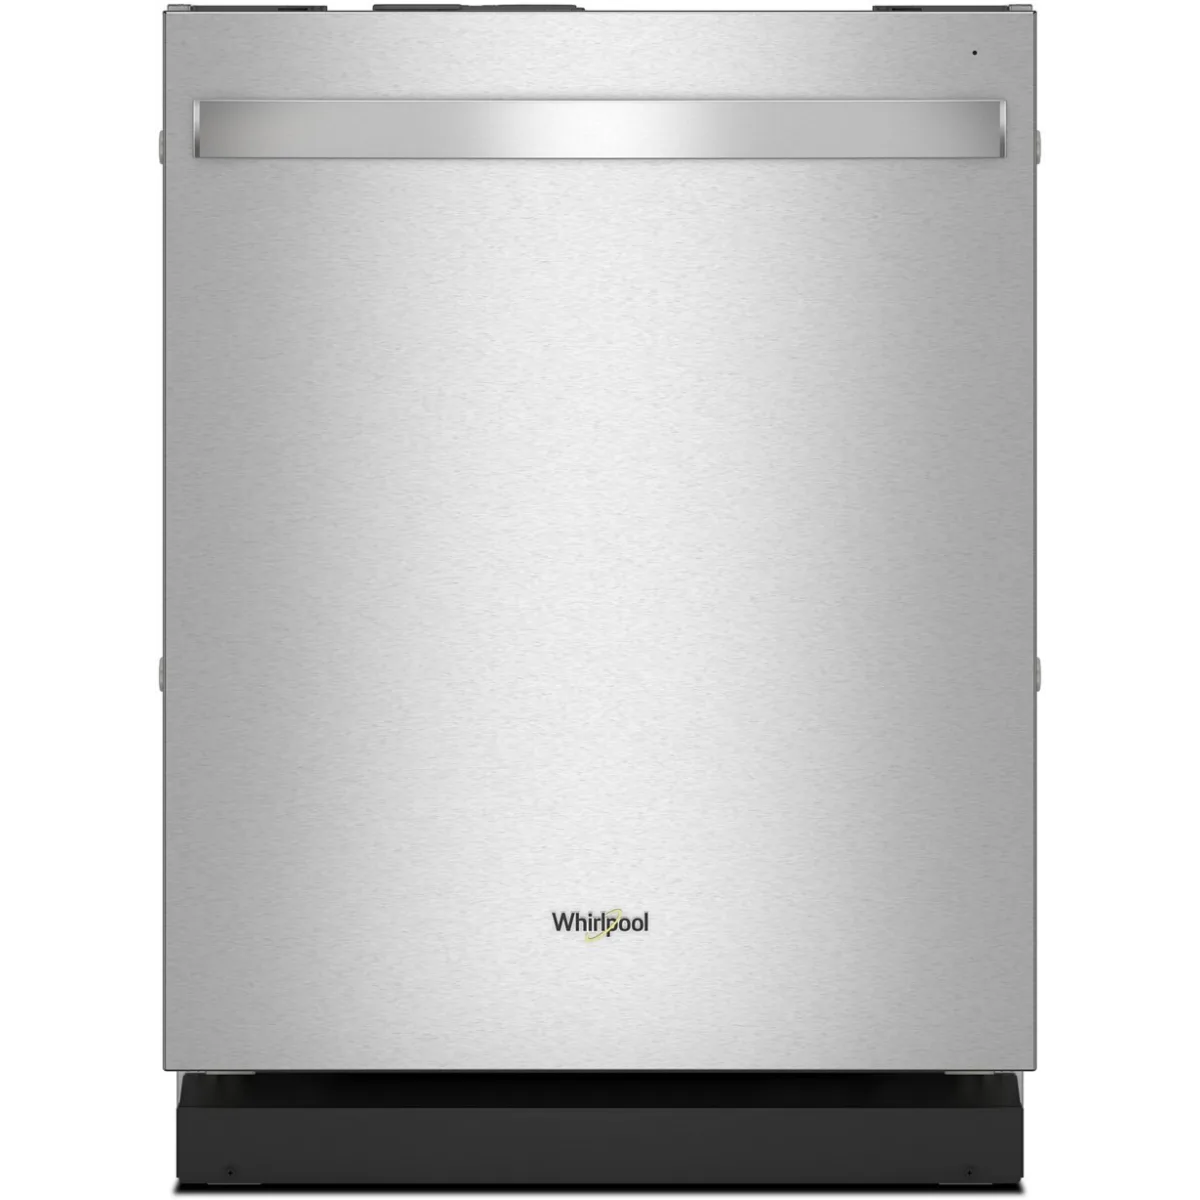
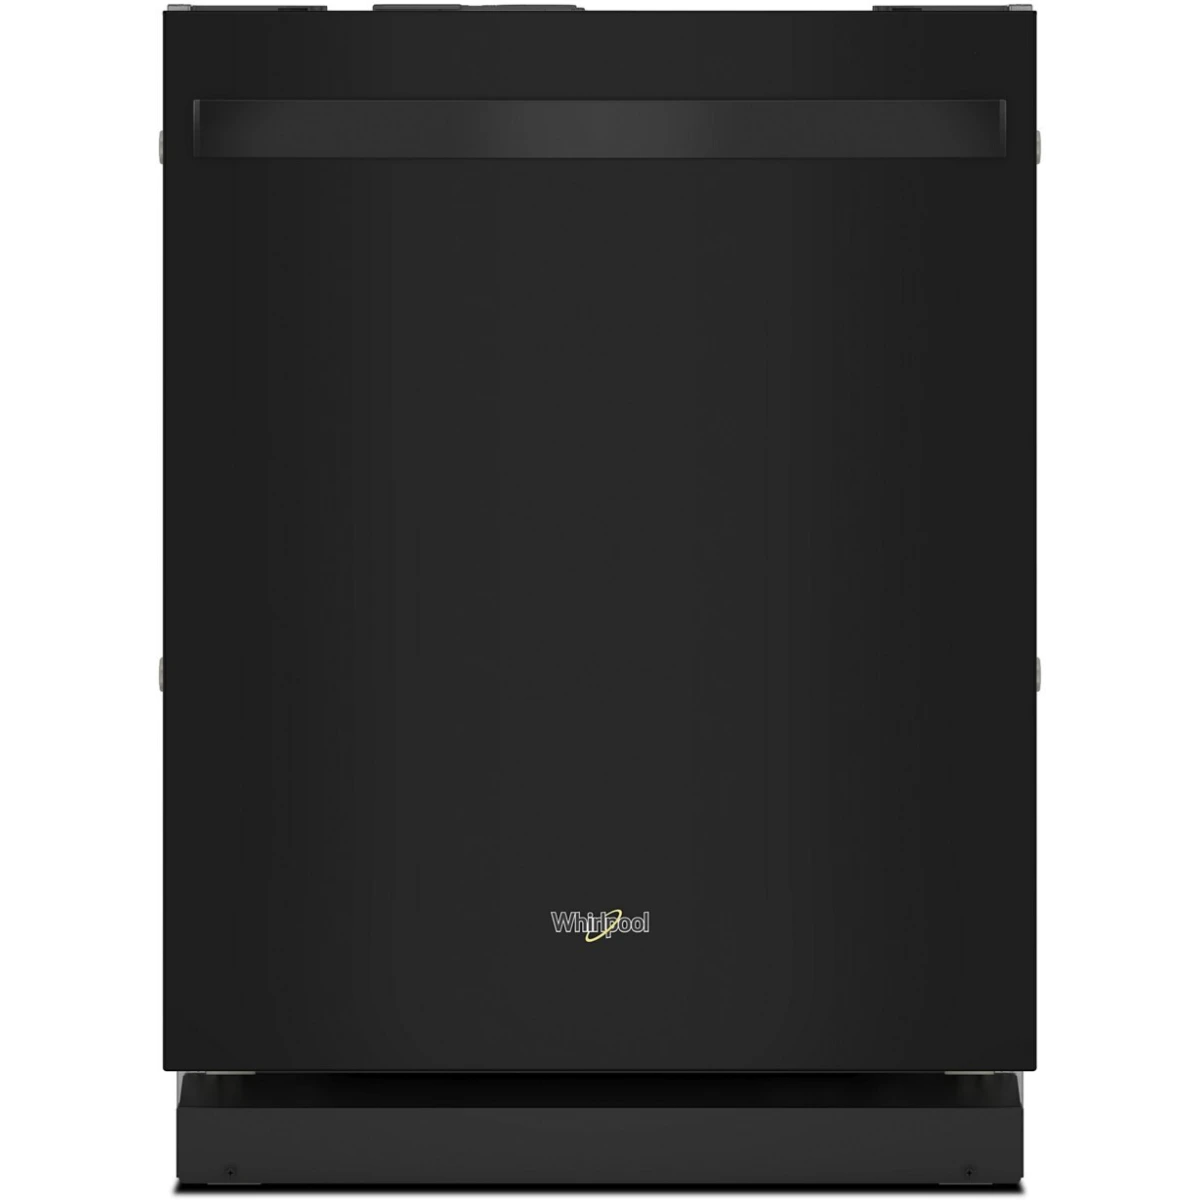
changes and updated appliances

diff --git a/src/components/Footer.tsx b/src/components/Footer.tsx
@@ -18,7 +18,10 @@ export default function Footer() {
                 height={40}
                 className="w-10 h-10"
               />
-              <span className="text-white font-semibold text-xl">BETTAR SERVICES</span>
+              <div className="flex flex-col leading-none">
+                <span className="text-white font-bold text-2xl tracking-[0.15em] mr-[-0.15em]">BETTAR</span>
+                <span className="text-white/90 font-medium text-[10px] tracking-[0.18em] mt-0.5 whitespace-nowrap">APPLIANCE MASTER</span>
+              </div>
             </div>
             <p className="text-gray-300 mb-4">
               Your trusted partner for home improvement, renovation, plumbing, handyman, and appliance services in Kensington, MD since 1945.
@@ -101,7 +104,7 @@ export default function Footer() {
         <div className="border-t border-gray-600 mt-8 pt-8">
           <div className="flex flex-col md:flex-row justify-between items-center">
             <p className="text-gray-300 text-sm">
-              © 2024 Bettar Services. All rights reserved.
+              © {new Date().getFullYear()} Bettar Appliance Master. All rights reserved.
             </p>
             <div className="flex space-x-6 mt-4 md:mt-0">
               <Link href="#" className="text-gray-300 hover:text-white transition-colors text-sm">Privacy Policy</Link>

diff --git a/src/components/Header.tsx b/src/components/Header.tsx
@@ -37,7 +37,10 @@ export default function Header() {
             height={40}
             className="w-9 h-9 2xl:w-10 2xl:h-10"
           />
-          <span className="text-white font-semibold text-lg sm:text-xl xl:text-lg 2xl:text-xl truncate">BETTAR SERVICES</span>
+          <div className="flex flex-col leading-none">
+            <span className="text-white font-bold text-xl sm:text-2xl xl:text-xl 2xl:text-2xl tracking-[0.28em] mr-[-0.28em]">BETTAR</span>
+            <span className="text-white/90 font-medium text-[9px] sm:text-[10px] tracking-[0.18em] mt-0.5 whitespace-nowrap">APPLIANCE MASTER</span>
+          </div>
         </Link>
 
         {/* Navigation — centered, only on xl+ */}